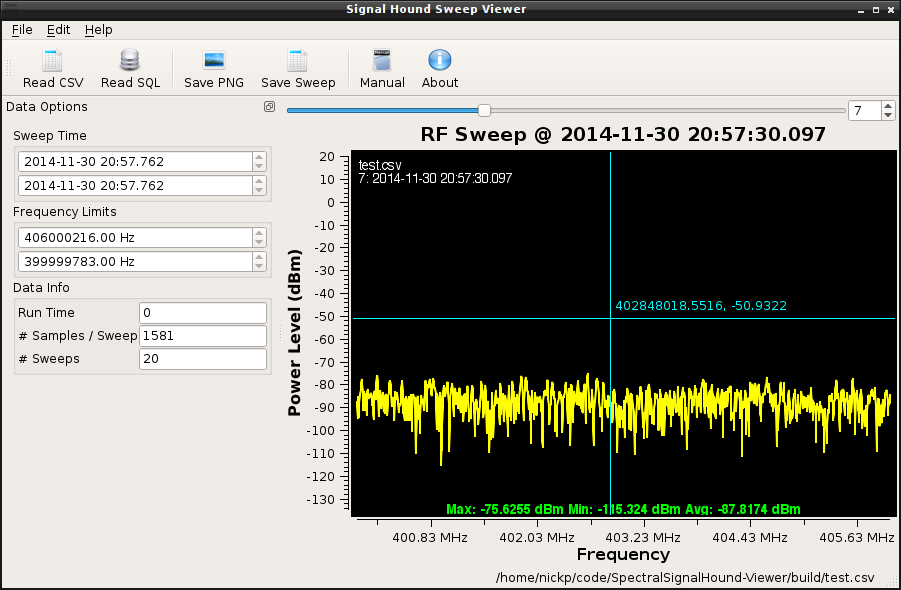
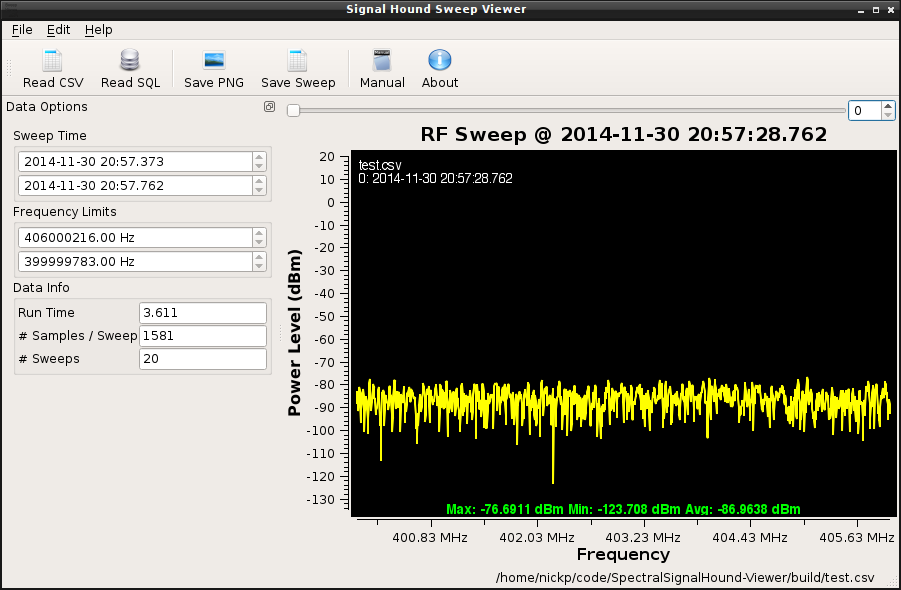
Fixed a bug with displaying the last known timestamp and updated screenshots that showed the bug

diff --git a/sources/SweepMainWin.cpp b/sources/SweepMainWin.cpp
@@ -67,10 +67,11 @@ void SweepMainWin::updateMetadata() {
   //get max and mins setup
   timeIndex->setMaximum(data->getNumSweeps());
   index->setMaximum(data->getNumSweeps());
-  QDateTime begin = data->dateTimeFromIndex(0), end=data->dateTimeFromIndex(timeIndex->maximum());
+  QDateTime begin = data->dateTimeFromIndex(0), end=data->dateTimeFromIndex(timeIndex->maximum()-1);
   _min_time->setMinimumDateTime(begin);
   _min_time->setMaximumDateTime(end);
   _min_time->setDateTime(begin);
+  qDebug() << "Begin: " << begin << " End: " << end;
   _max_time->setMinimumDateTime(begin);
   _max_time->setMaximumDateTime(end);
   _max_time->setDateTime(end);
